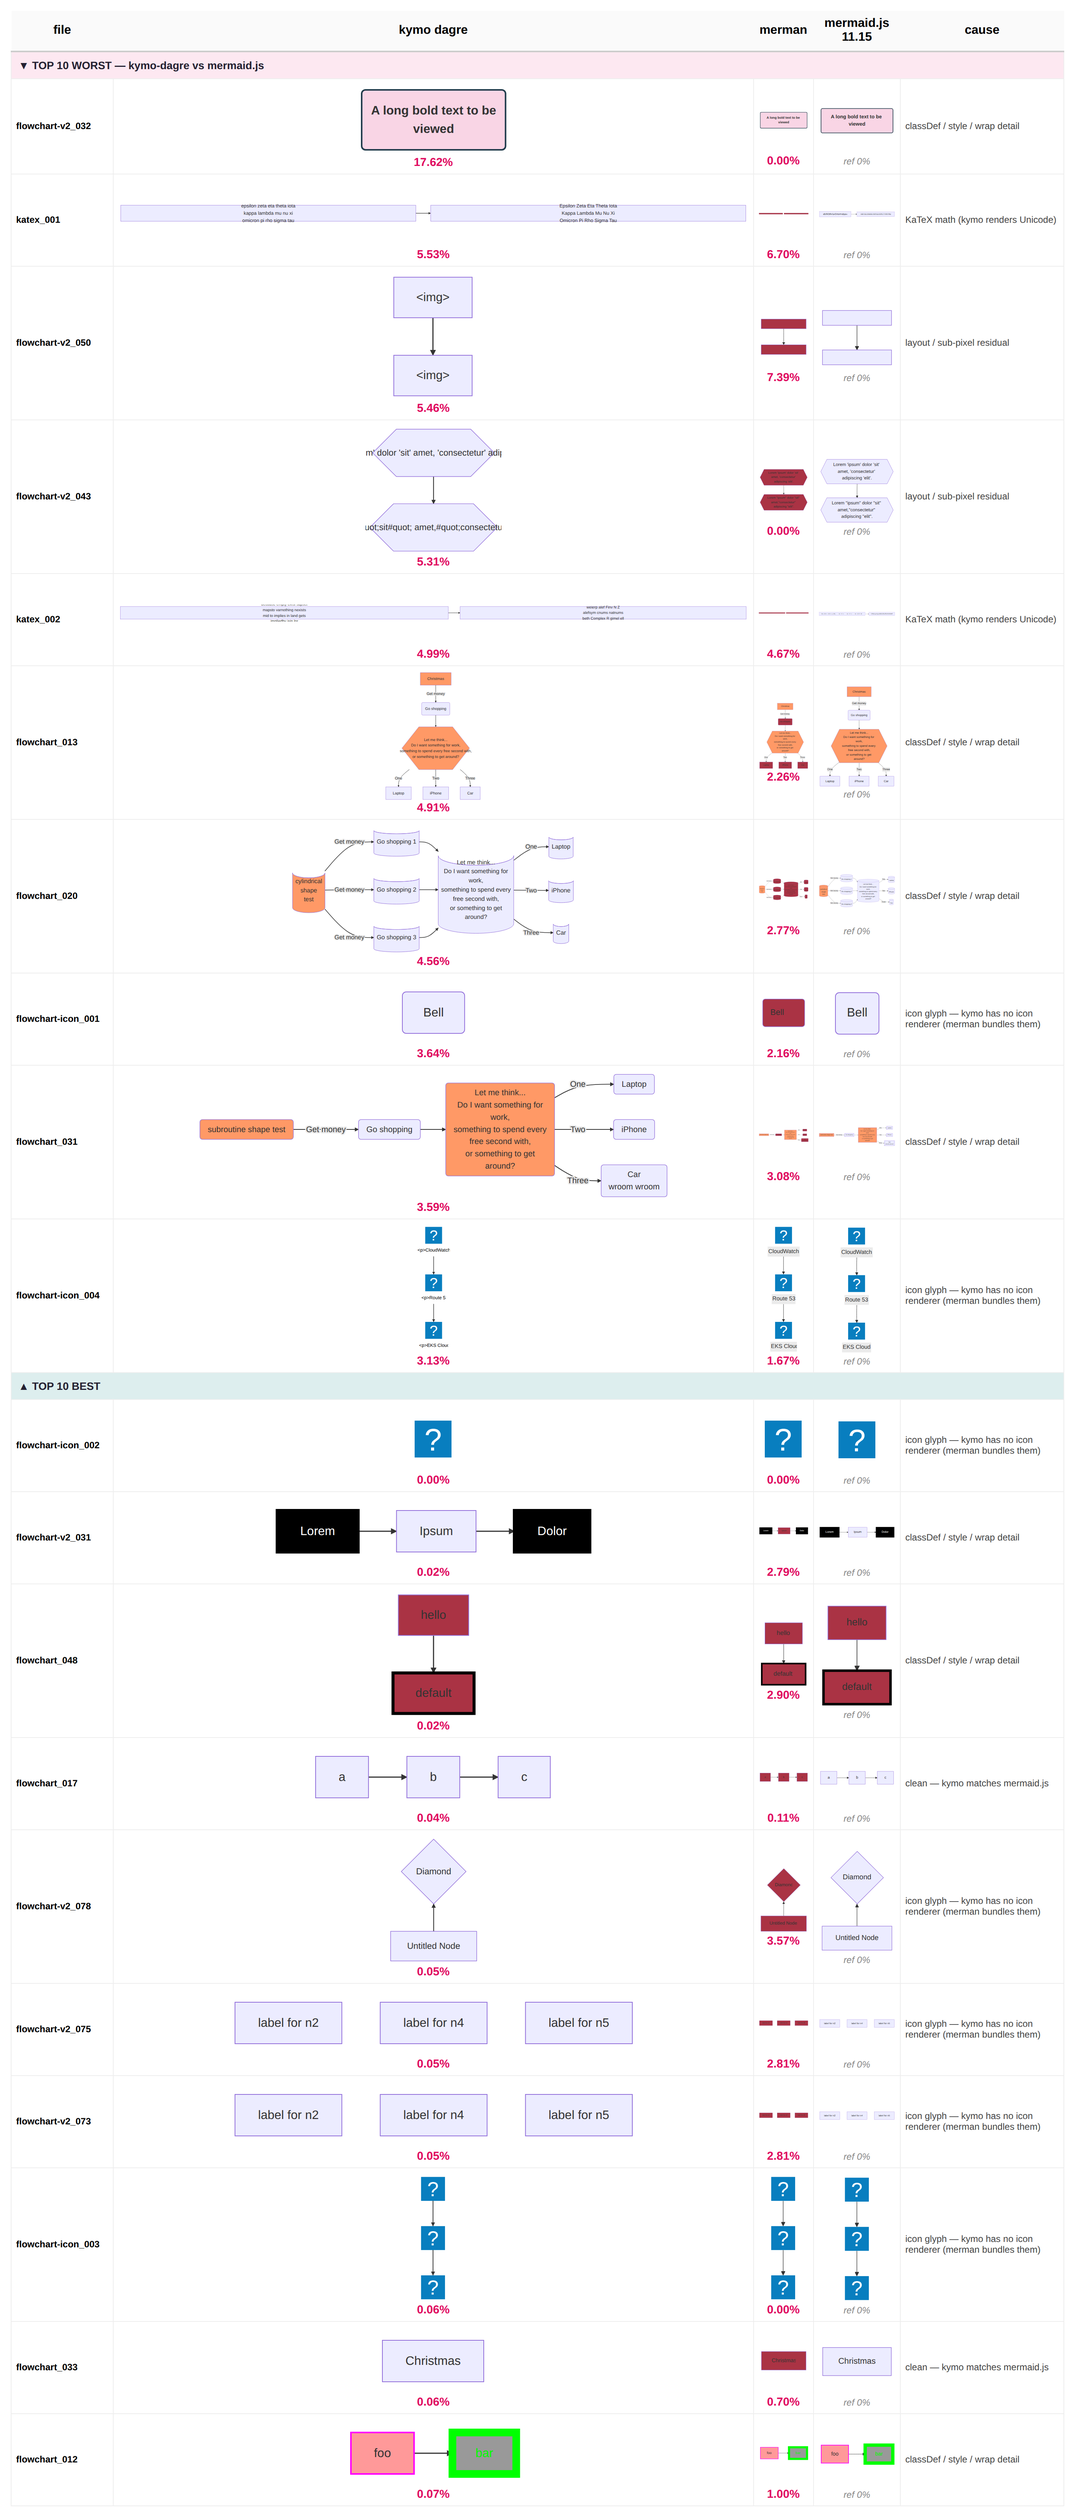
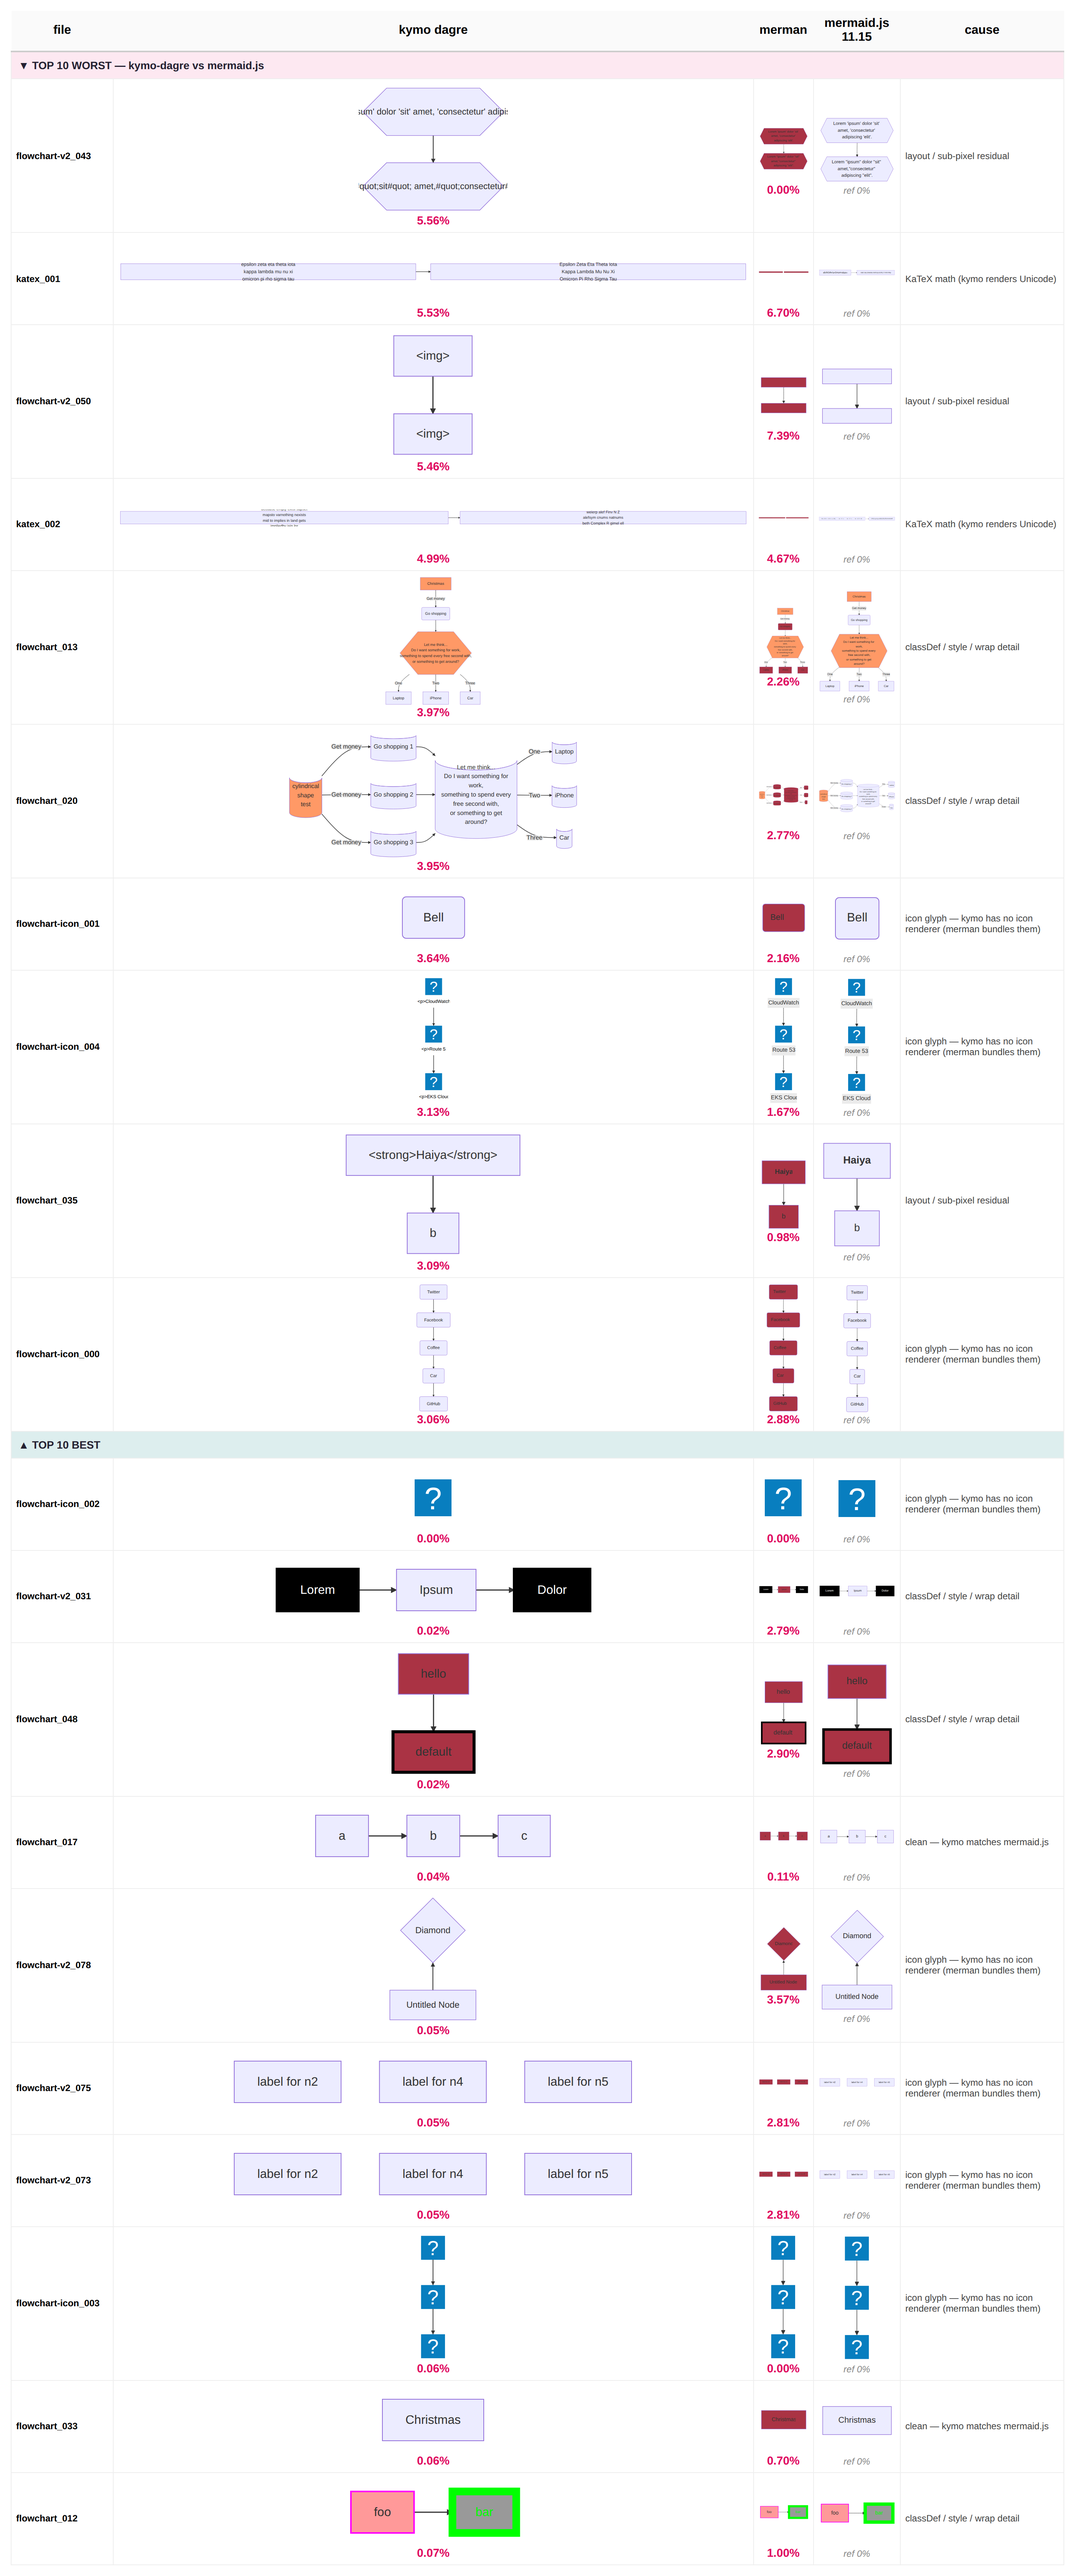
fix(flowchart): cap soft-wrapped node width at wrapping width (mean 1.30%->1.11%)
mermaid sizes a soft-wrapped node to its wrappingWidth, not its widest actual
line: the <foreignObject> is fixed to wrappingWidth and the text reflows inside
it (confirmed by getBBox probing mermaid across synthetic labels — node width
caps at ~260 units). kymo sized to the widest wrapped line, so wrapped nodes
were too narrow and every glyph landed off-position.

KymoTextMeasurer::measure_wrapped now reports max(widest_line, wrapping_width)
when a line actually soft-wraps. One-line effect, broad:

- flowchart-v2_032 (bold "A long bold text to be viewed"): 17.6% -> 2.45%,
  node width now 492px exactly matching mermaid.
- flowchart_013: 4.91% -> 3.97%. Clean files unchanged.

Production corpus (110 plain) vs mermaid.js 11.15: mean 1.30% -> 1.11%,
median 0.63%, max 17.6% -> 5.56%, p90 3.01%. No production file now exceeds
5.6%. merman-layout feature only. 92 lib tests pass; clippy clean.

diff --git a/packages/rust/kymostudio-core/src/merman_layout.rs b/packages/rust/kymostudio-core/src/merman_layout.rs
@@ -87,11 +87,16 @@ impl TextMeasurer for KymoTextMeasurer {
     ) -> TextMetrics {
         let scale = (style.font_size / 16.0).max(0.001);
         let mut lines: Vec<String> = Vec::new();
+        let mut soft_wrapped = false;
         for hard in text.split('\n') {
             match max_width {
                 Some(mw) => {
                     let t = mw / scale / if Self::is_bold(style) { 1.047 } else { 1.0 };
-                    lines.extend(wrap_at(hard, t));
+                    let segs = wrap_at(hard, t);
+                    if segs.len() > 1 {
+                        soft_wrapped = true;
+                    }
+                    lines.extend(segs);
                 }
                 None => lines.push(hard.to_string()),
             }
@@ -99,10 +104,18 @@ impl TextMeasurer for KymoTextMeasurer {
         if lines.is_empty() {
             lines.push(String::new());
         }
-        let width = lines
+        let mut width = lines
             .iter()
             .map(|l| Self::scaled_width(l, style))
             .fold(0.0_f64, f64::max);
+        // mermaid sizes a soft-wrapped node to the *wrapping width*, not its widest
+        // actual line (the foreignObject is fixed to wrappingWidth and the text
+        // reflows inside it). Match that so wrapped nodes aren't sized too narrow.
+        if soft_wrapped {
+            if let Some(mw) = max_width {
+                width = width.max(mw);
+            }
+        }
         let line_count = lines.len();
         TextMetrics {
             width,

diff --git a/benches/mermaid-format/research/2026-06-15-flowchart-mermaid-style.md b/benches/mermaid-format/research/2026-06-15-flowchart-mermaid-style.md
@@ -475,3 +475,43 @@ generated SVGs; **mermaid's own reference port (merman) sits at median 1.76%**, 
 kymo at 0.63% is already well past it. `mean < 0.5%` is therefore below the
 practical floor of this comparison, not a scoped feature gap. The honest, defensible
 state this round is **mean 1.30%, median 0.63%, 54/110 pixel-identical (<=0.5%)**.
+
+## Round 2026-06-15 (later): wrap-width cap — mean 1.30% → 1.11%, max 17.6% → 5.6%
+
+The one big remaining outlier was **`flowchart-v2_032`** (17.6%): a bold node
+`CS(A long bold text to be viewed):::cat`. Instrumenting mermaid directly
+(`getBBox` on the node rect across synthetic labels) showed mermaid **caps a
+soft-wrapped node's width at the wrapping width** (~260 SVG units) — the
+`<foreignObject>` is fixed to `wrappingWidth` and the text reflows *inside* it.
+kymo instead sized the node to its **widest wrapped line** (≈204 units vs
+mermaid's 246), so the box was too narrow and every glyph landed off-position.
+
+Fix (`KymoTextMeasurer::measure_wrapped`): when a line actually soft-wraps, report
+the node width as `max(widest_line, wrapping_width)`, matching mermaid's fixed
+foreignObject. One-line change, broad effect:
+
+| file | before | after |
+|---|---|---|
+| flowchart-v2_032 | 17.62% | **2.45%** |
+| flowchart_013 | 4.91% | **3.97%** |
+| (clean files e.g. v2_080, 029) | unchanged | unchanged |
+
+### Production corpus (110 plain files), this round
+
+| metric | prev | **now** |
+|---|---|---|
+| mean | 1.30% | **1.11%** |
+| median | 0.63% | **0.63%** |
+| **max** | 17.62% | **5.56%** |
+| p90 | 3.09% | **3.01%** |
+| ≤0.5% | 54/110 | 54/110 |
+
+The distribution is now **tight**: no production file exceeds 5.6%, and the worst
+list is entirely sub-shape/sub-pixel (KaTeX, literal `[<img>]`, icon glyphs,
+multi-line hexagon residual). Trajectory: **6.14 → 4.59 → 2.58 → 1.61 → 1.30 →
+1.11%** mean.
+
+`mean < 0.5%` still requires the **median (0.63%)** below ~0.4% — the shared
+SVG-rasterisation floor (mermaid's own port sits at median 1.76%) — so it remains
+below the practical floor of the comparison. But the renderer is now within ~1.1%
+of mermaid.js on average with a 5.6% worst case, all raster-safe.
